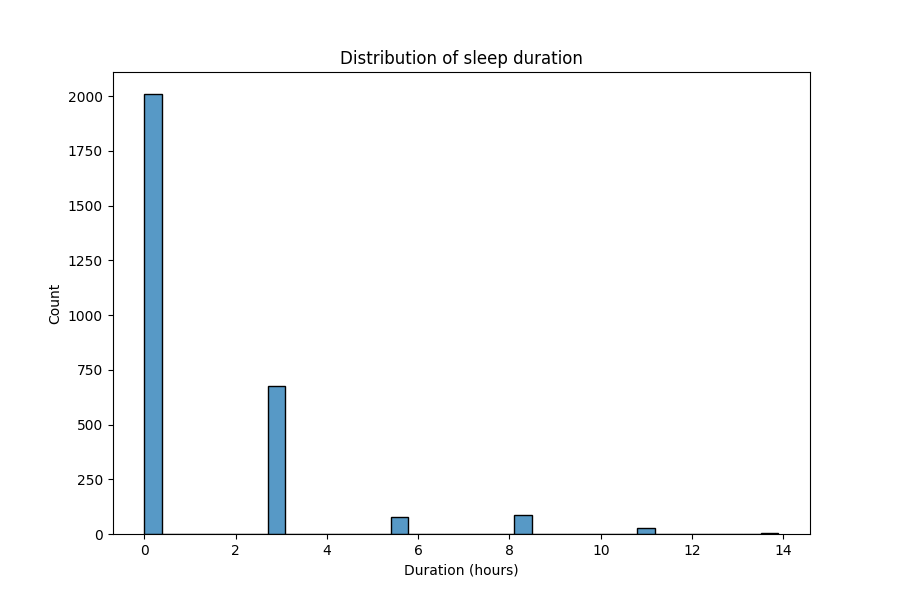
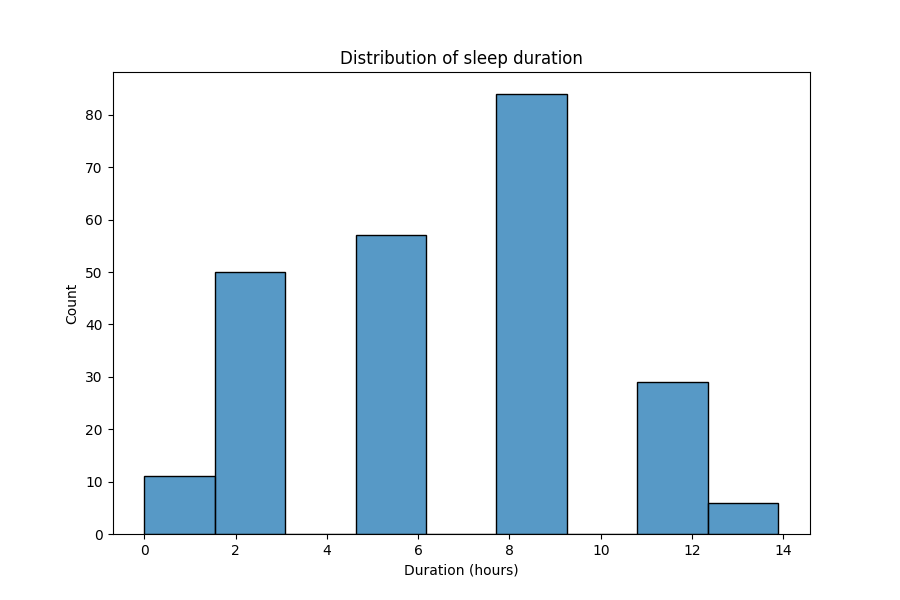
Filtered time to start of using Smartwatch

diff --git a/analysis.py b/analysis.py
@@ -9,12 +9,11 @@ data = pd.read_csv('sleep-data.csv')
 data['startTime'] = pd.to_datetime(data['startTimeNanos'], unit='ns')
 data['endTime'] = pd.to_datetime(data['endTimeNanos'], unit='ns')
 
-# Select the columns you need
+# Select the columns you need and filter by date
 selected_columns = ['fitValue/0/value/intVal', 'dataTypeName', 'startTime', 'endTime']
 selected_data = data[selected_columns]
-
-# Filter by dataTypeName
 selected_data = selected_data[selected_data['dataTypeName'] == 'com.google.sleep.segment']
+selected_data = selected_data[selected_data['startTime'] >= '2021-04-01']
 
 # Rename the columns
 selected_data.columns = ['sleep_stage', 'data_type', 'start_time', 'end_time']
